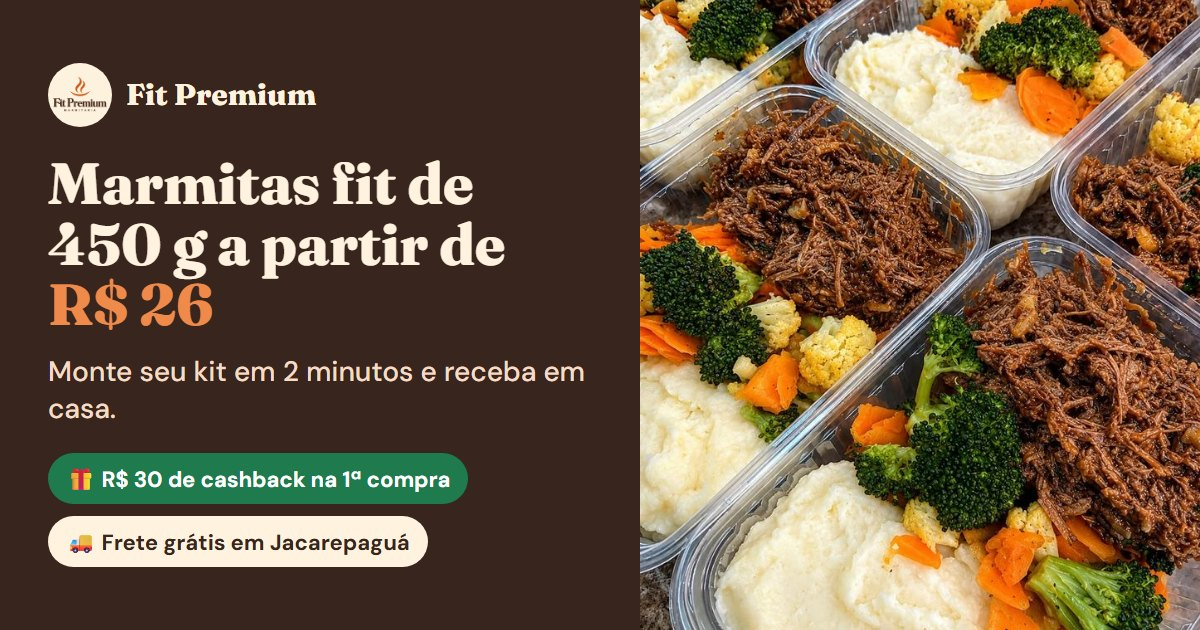
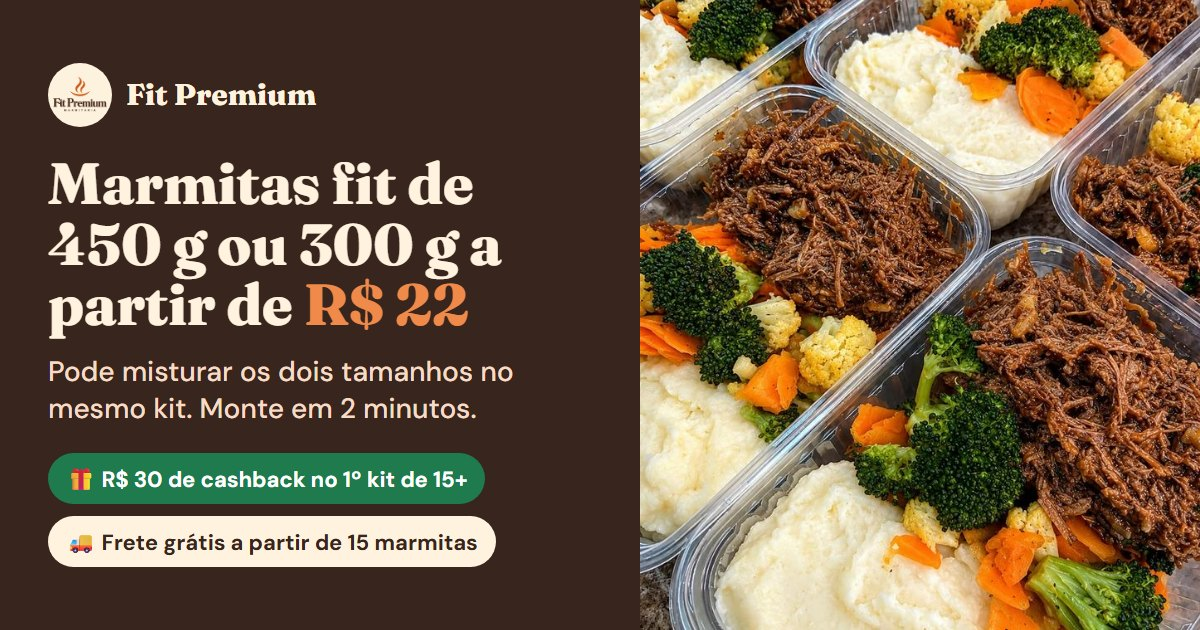
Pente fino: site nao quebra se um kit ficar sem 300 g, cabecalho da tabela de precos uniforme, imagem de compartilhamento e meta com 450/300 g e cashback a partir de 15, priceRange ate R$ 40, 'toda Jacarepagua'

diff --git a/app.js b/app.js
@@ -33,8 +33,12 @@
   const totalMarmitas = () => totalTradicionais() + totalLeves();
   // O mesmo prato em 450 g e 300 g conta como um prato só.
   const pratosDistintos = () => new Set([...Object.keys(estado.itens), ...Object.keys(estado.leves)]).size;
-  const T = D.tamanhos;
+  const T = D.tamanhos || { tradicional: { peso: '450 g' }, leve: { peso: '300 g', descricao: 'porção menor' } };
   const P450 = T.tradicional.peso, P300 = T.leve.peso;
+  // Preço de 300 g do kit (null quando o kit não tem 300 g: o site esconde essa opção em vez de quebrar).
+  const pl = (c, cat) => (c && c.precosLeve && typeof c.precosLeve[cat] === 'number' ? c.precosLeve[cat] : null);
+  const brlOu = (v) => (v == null ? '—' : brl(v));
+  const minimo = (lista) => { const v = lista.filter((x) => typeof x === 'number'); return v.length ? Math.min(...v) : null; };
   const totalExtras = () => [...Object.values(estado.extras), ...Object.values(estado.doces), ...Object.values(estado.avulsos)].reduce((a, b) => a + b, 0);
   const S = D.sobremesas;
   const precoDoce = () => (S.preco == null ? 'valor a confirmar' : brl(S.preco));
@@ -59,15 +63,15 @@
       <p class="sub">Até ${c.maxPratos} pratos diferentes</p>
       <table class="tabela-precos">
         <tr class="cab"><td>Por marmita</td><td>${P450}</td><td>${P300}</td></tr>
-        <tr><td>Frango</td><td>${brl(c.precos.Frango)}</td><td>${brl(c.precosLeve.Frango)}</td></tr>
-        <tr><td>Carne ou peixe</td><td>${brl(c.precos.Carne)}</td><td>${brl(c.precosLeve.Carne)}</td></tr>
+        <tr><td>Frango</td><td>${brl(c.precos.Frango)}</td><td>${brlOu(pl(c, 'Frango'))}</td></tr>
+        <tr><td>Carne ou peixe</td><td>${brl(c.precos.Carne)}</td><td>${brlOu(pl(c, 'Carne'))}</td></tr>
       </table>
       <p class="sub">Pode misturar ${P450} e ${P300} no mesmo kit</p>
       ${economia(c) > 0 ? `<p class="economia">Economize até ${brl(economia(c))}</p>` : ''}
       <p class="beneficio${c.freteGratis ? '' : ' neutro'}">${c.freteGratis ? 'Frete grátis em Jacarepaguá' : 'Entrega a partir de R$ 10'}</p>
       <button class="btn${c.destaque ? '' : ' btn-contorno'}" data-escolher="${c.id}">Montar kit de ${c.marmitas}</button>
     </article>`).join('')
-    + (AVULSA ? `<p class="avulsa-nota">Quer só algumas? Marmitas avulsas (de ${AVULSA.minimo} a ${AVULSA.marmitas}): ${P450} frango ${brl(AVULSA.precos.Frango)} · carne ou peixe ${brl(AVULSA.precos.Carne)}; ${P300} frango ${brl(AVULSA.precosLeve.Frango)} · carne ou peixe ${brl(AVULSA.precosLeve.Carne)}. <button class="link-limpar" data-escolher="${AVULSA.id}">Pedir avulsas</button></p>` : '');
+    + (AVULSA ? `<p class="avulsa-nota">Quer só algumas? Marmitas avulsas (de ${AVULSA.minimo} a ${AVULSA.marmitas}): ${P450} frango ${brl(AVULSA.precos.Frango)} · carne ou peixe ${brl(AVULSA.precos.Carne)}${pl(AVULSA, 'Frango') != null ? `; ${P300} frango ${brl(pl(AVULSA, 'Frango'))} · carne ou peixe ${brl(pl(AVULSA, 'Carne'))}` : ''}. <button class="link-limpar" data-escolher="${AVULSA.id}">Pedir avulsas</button></p>` : '');
 
   document.querySelectorAll('[data-escolher]').forEach((b) => b.addEventListener('click', () => {
     escolherCombo(Number(b.dataset.escolher));
@@ -142,7 +146,7 @@
       <div class="prato prato-marmita${q450 + q300 ? ' ativo' : ''}">
         ${foto ? `<img class="prato-foto" src="${foto}" alt="" loading="lazy" width="64" height="64">` : ''}
         <div class="prato-nome">${nome}${obs ? `<small>${obs}</small>` : ''}</div>
-        <div class="tamanhos">${contador(nome, q450, podeMais, 'itens', P450, c.precos[cat])}${contador(nome, q300, podeMais, 'leves', P300, c.precosLeve[cat])}</div>
+        <div class="tamanhos">${contador(nome, q450, podeMais, 'itens', P450, c.precos[cat])}${pl(c, cat) != null ? contador(nome, q300, podeMais, 'leves', P300, pl(c, cat)) : ''}</div>
       </div>`;
   }
 
@@ -243,7 +247,7 @@
     else if (c.avulso && total > 0) {
       const falta = proximo.marmitas - total;
       aviso.textContent = total >= proximo.marmitas - 3
-        ? `Faltam só ${falta} para o ${proximo.nome} (${proximo.marmitas} marmitas), que sai ${brl(totalLeves() > totalTradicionais() ? c.precosLeve.Frango - proximo.precosLeve.Frango : c.precos.Frango - proximo.precos.Frango)} mais barato por marmita.`
+        ? `Faltam só ${falta} para o ${proximo.nome} (${proximo.marmitas} marmitas), que sai ${brl(totalLeves() > totalTradicionais() && pl(c, 'Frango') != null && pl(proximo, 'Frango') != null ? pl(c, 'Frango') - pl(proximo, 'Frango') : c.precos.Frango - proximo.precos.Frango)} mais barato por marmita.`
         : 'Pronto! É só finalizar.';
       ok = true;
     }
@@ -276,7 +280,7 @@
 
   // ---------- Cardápio ----------
   $('#cardapio-lista').innerHTML = [
-    ...categorias.map((cat) => `<div class="cardapio-cat"><h3>${cat}<span>${P450} a partir de ${brl(Math.min(...D.combos.map((c) => c.precos[cat])))} · ${P300} a partir de ${brl(Math.min(...D.combos.map((c) => c.precosLeve[cat])))}</span></h3>
+    ...categorias.map((cat) => `<div class="cardapio-cat"><h3>${cat}<span>${P450} a partir de ${brl(Math.min(...D.combos.map((c) => c.precos[cat])))}${minimo(D.combos.map((c) => pl(c, cat))) != null ? ` · ${P300} a partir de ${brl(minimo(D.combos.map((c) => pl(c, cat))))}` : ''}</span></h3>
       <ul>${D.pratos[cat].map((p) => `<li>${p}${D.observacoes[p] ? ` <span class="pequeno">(${D.observacoes[p].toLowerCase()})</span>` : ''}</li>`).join('')}</ul></div>`),
     `<div class="cardapio-cat"><h3>${D.extras.categoria}<span>${brl(D.extras.preco)} cada</span></h3>
       <ul>${D.extras.pratos.map((p) => `<li>${p}</li>`).join('')}</ul><p class="pequeno">Peça junto com as marmitas ou sozinho, na opção Avulsas.</p></div>`,
@@ -609,6 +613,7 @@
   function montarPraMim(id, tamanho) {
     const c = D.combos.find((x) => x.id === id);
     if (!c || c.avulso) return;
+    if (pl(c, 'Frango') == null) tamanho = '450'; // kit sem 300 g
     const pratos = sugestao(c);
     estado.combo = id;
     estado.itens = {};
@@ -628,7 +633,7 @@
     montarPraMim(combo().avulso ? combosReais[0].id : estado.combo, b.dataset.sugestao)));
 
   // Preço por marmita do kit no tamanho escolhido (frango, o menor).
-  const precoDoTamanho = (c, tamanho) => (tamanho === '300' ? c.precosLeve.Frango : tamanho === 'misto' ? Math.min(c.precos.Frango, c.precosLeve.Frango) : c.precos.Frango);
+  const precoDoTamanho = (c, tamanho) => (pl(c, 'Frango') == null || tamanho === '450' ? c.precos.Frango : tamanho === '300' ? pl(c, 'Frango') : Math.min(c.precos.Frango, pl(c, 'Frango')));
   const textoTamanho = { 450: `marmitas de ${P450}`, 300: `marmitas de ${P300}`, misto: `metade ${P450} e metade ${P300}` };
 
   // Qual kit é para mim? (refeições por semana × pessoas → kit que dura umas 2 semanas, no tamanho escolhido)

diff --git a/index.html b/index.html
@@ -6,7 +6,7 @@
   <meta name="referrer" content="strict-origin-when-cross-origin">
   <meta name="viewport" content="width=device-width, initial-scale=1, viewport-fit=cover">
   <title>Marmitas Congeladas em Jacarepaguá | Fit Premium Marmitaria</title>
-  <meta name="description" content="Marmitas fit congeladas de 450 g ou 300 g com entrega em Jacarepaguá: Taquara, Freguesia, Pechincha, Anil, Tanque e região. Kits de 10, 15 e 30 marmitas a partir de R$ 22, com frete grátis em Jacarepaguá a partir de 15 marmitas.">
+  <meta name="description" content="Marmitas fit congeladas de 450 g ou 300 g com entrega em Jacarepaguá: Taquara, Freguesia, Pechincha, Anil, Tanque e toda a região de Jacarepaguá. Kits de 10, 15 e 30 marmitas a partir de R$ 22, com frete grátis em Jacarepaguá a partir de 15 marmitas.">
   <link rel="canonical" href="https://fitpremium.onrender.com/">
   <meta name="robots" content="index, follow, max-image-preview:large">
   <meta name="geo.region" content="BR-RJ">
@@ -23,12 +23,12 @@
     "@id": "https://fitpremium.onrender.com/#empresa",
     "name": "Fit Premium Marmitaria",
     "alternateName": "Fit Premium",
-    "description": "Marmitas fit congeladas de 450 g ou 300 g com frango, carne e peixe. Kits de 10, 15 e 30 marmitas com entrega em Jacarepaguá e região.",
+    "description": "Marmitas fit congeladas de 450 g ou 300 g com frango, carne e peixe. Kits de 10, 15 e 30 marmitas com entrega em toda Jacarepaguá.",
     "url": "https://fitpremium.onrender.com/",
     "image": ["https://fitpremium.onrender.com/fotos/foto-08.jpg", "https://fitpremium.onrender.com/fotos/foto-15.jpg", "https://fitpremium.onrender.com/fotos/foto-20.jpg"],
     "logo": "https://fitpremium.onrender.com/logo-fit-premium.png",
     "telephone": "+55-21-99304-6464",
-    "priceRange": "R$ 22 – R$ 38",
+    "priceRange": "R$ 22 – R$ 40",
     "servesCuisine": ["Marmitas", "Comida saudável", "Comida caseira", "Marmita fit"],
     "hasMenu": "https://fitpremium.onrender.com/#cardapio",
     "acceptsReservations": false,
@@ -46,16 +46,16 @@
   }
   </script>
   <meta property="og:title" content="Marmitas fit de 450 g ou 300 g a partir de R$ 22 · Fit Premium">
-  <meta property="og:description" content="Monte seu kit em 2 minutos. Frete grátis em Jacarepaguá a partir de 15 marmitas e R$ 30 de cashback na 1ª compra.">
+  <meta property="og:description" content="Monte seu kit em 2 minutos. Frete grátis em Jacarepaguá a partir de 15 marmitas e R$ 30 de cashback na 1ª compra a partir de 15 marmitas.">
   <meta property="og:image:width" content="1200">
   <meta property="og:image:height" content="630">
-  <meta property="og:image" content="https://fitpremium.onrender.com/compartilhar.jpg?v=2">
+  <meta property="og:image" content="https://fitpremium.onrender.com/compartilhar.jpg?v=3">
   <meta property="og:url" content="https://fitpremium.onrender.com/">
   <meta name="theme-color" content="#fff3df">
   <link rel="preconnect" href="https://fonts.googleapis.com">
   <link rel="preconnect" href="https://fonts.gstatic.com" crossorigin>
   <link href="https://fonts.googleapis.com/css2?family=Fraunces:opsz,wght@9..144,500;9..144,700&family=DM+Sans:wght@400;500;700&display=swap" rel="stylesheet">
-  <link rel="stylesheet" href="estilo.css?v=20260930u">
+  <link rel="stylesheet" href="estilo.css?v=20261001a">
 </head>
 <body>
   <div class="aviso-topo" id="aviso-topo"></div>
@@ -344,8 +344,8 @@
     </div>
   </dialog>
 
-  <script src="dados.js?v=20260930u"></script>
-  <script src="preco.js?v=20260930u"></script>
-  <script src="app.js?v=20260930u"></script>
+  <script src="dados.js?v=20261001a"></script>
+  <script src="preco.js?v=20261001a"></script>
+  <script src="app.js?v=20261001a"></script>
 </body>
 </html>

diff --git a/estilo.css b/estilo.css
@@ -345,7 +345,8 @@ h1 .selo { display: block; font-family: var(--sans); font-size: .8rem; line-heig
 .tam-rotulo { font-size: .8rem; color: var(--suave); white-space: nowrap; }
 .tam-rotulo strong { color: var(--marrom); font-size: .9rem; }
 .tabela-precos .cab td { border-top: 0; padding: 0 0 4px; font-size: .78rem; font-weight: 700; color: var(--suave); text-transform: uppercase; letter-spacing: .04em; }
-.tabela-precos td:nth-child(2) { text-align: right; font-weight: 700; color: var(--marrom); }
+.tabela-precos tr:not(.cab) td:nth-child(2) { text-align: right; font-weight: 700; color: var(--marrom); }
+.tabela-precos .cab td:nth-child(n+2) { text-align: right; }
 @media (max-width: 720px) {
   .tamanhos { width: 100%; }
   .tam { flex: 1; min-width: 0; }

diff --git a/preco.js b/preco.js
@@ -82,6 +82,8 @@
     // Mesma ordem do cardápio, com os dois tamanhos do mesmo prato juntos.
     const ordem = Object.keys(categoriaDe);
     const itens = [...tradicionais, ...leves].sort((a, b) => ordem.indexOf(a.prato) - ordem.indexOf(b.prato));
+    // Cardápio sem preço para a categoria/tamanho: recusa (nunca grava total NaN).
+    if (combo) itens.filter((l) => typeof l.preco !== 'number' || !Number.isFinite(l.preco)).forEach((l) => erros.push(`Sem preço para ${l.nome}.`));
     const extras = ler(sel && sel.extras, D.extras.pratos, 'camarão')
       .map(([nome, qtd]) => ({ nome, qtd, preco: D.extras.preco, total: D.extras.preco * qtd }));
     const avulsos = ler(sel && sel.avulsos, Object.keys(precoAvulso), 'avulsos')

diff --git a/_fonte/gerar_compartilhar.py b/_fonte/gerar_compartilhar.py
@@ -20,9 +20,9 @@ h1{{font:800 58px/1.05 'Fraunces',serif;margin-bottom:18px}} h1 b{{color:#f08a4b
 .foto{{flex:1;background:url('{foto}') center/cover}}
 </style><body><div class="txt">
 <div class="logo"><img src="{logo}">Fit Premium</div>
-<h1>Marmitas fit de 450 g a partir de <b>R$ 26</b></h1>
-<p class="sub">Monte seu kit em 2 minutos e receba em casa.</p>
-<div class="tags"><span class="tag v">🎁 R$ 30 de cashback na 1ª compra</span><span class="tag">🚚 Frete grátis em Jacarepaguá</span></div>
+<h1>Marmitas fit de 450 g ou 300 g a partir de <b>R$ 22</b></h1>
+<p class="sub">Pode misturar os dois tamanhos no mesmo kit. Monte em 2 minutos.</p>
+<div class="tags"><span class="tag v">🎁 R$ 30 de cashback no 1º kit de 15+</span><span class="tag">🚚 Frete grátis a partir de 15 marmitas</span></div>
 </div><div class="foto"></div></body>"""
 h = AQUI / '_compartilhar.html'
 h.write_text(html, encoding='utf-8')
